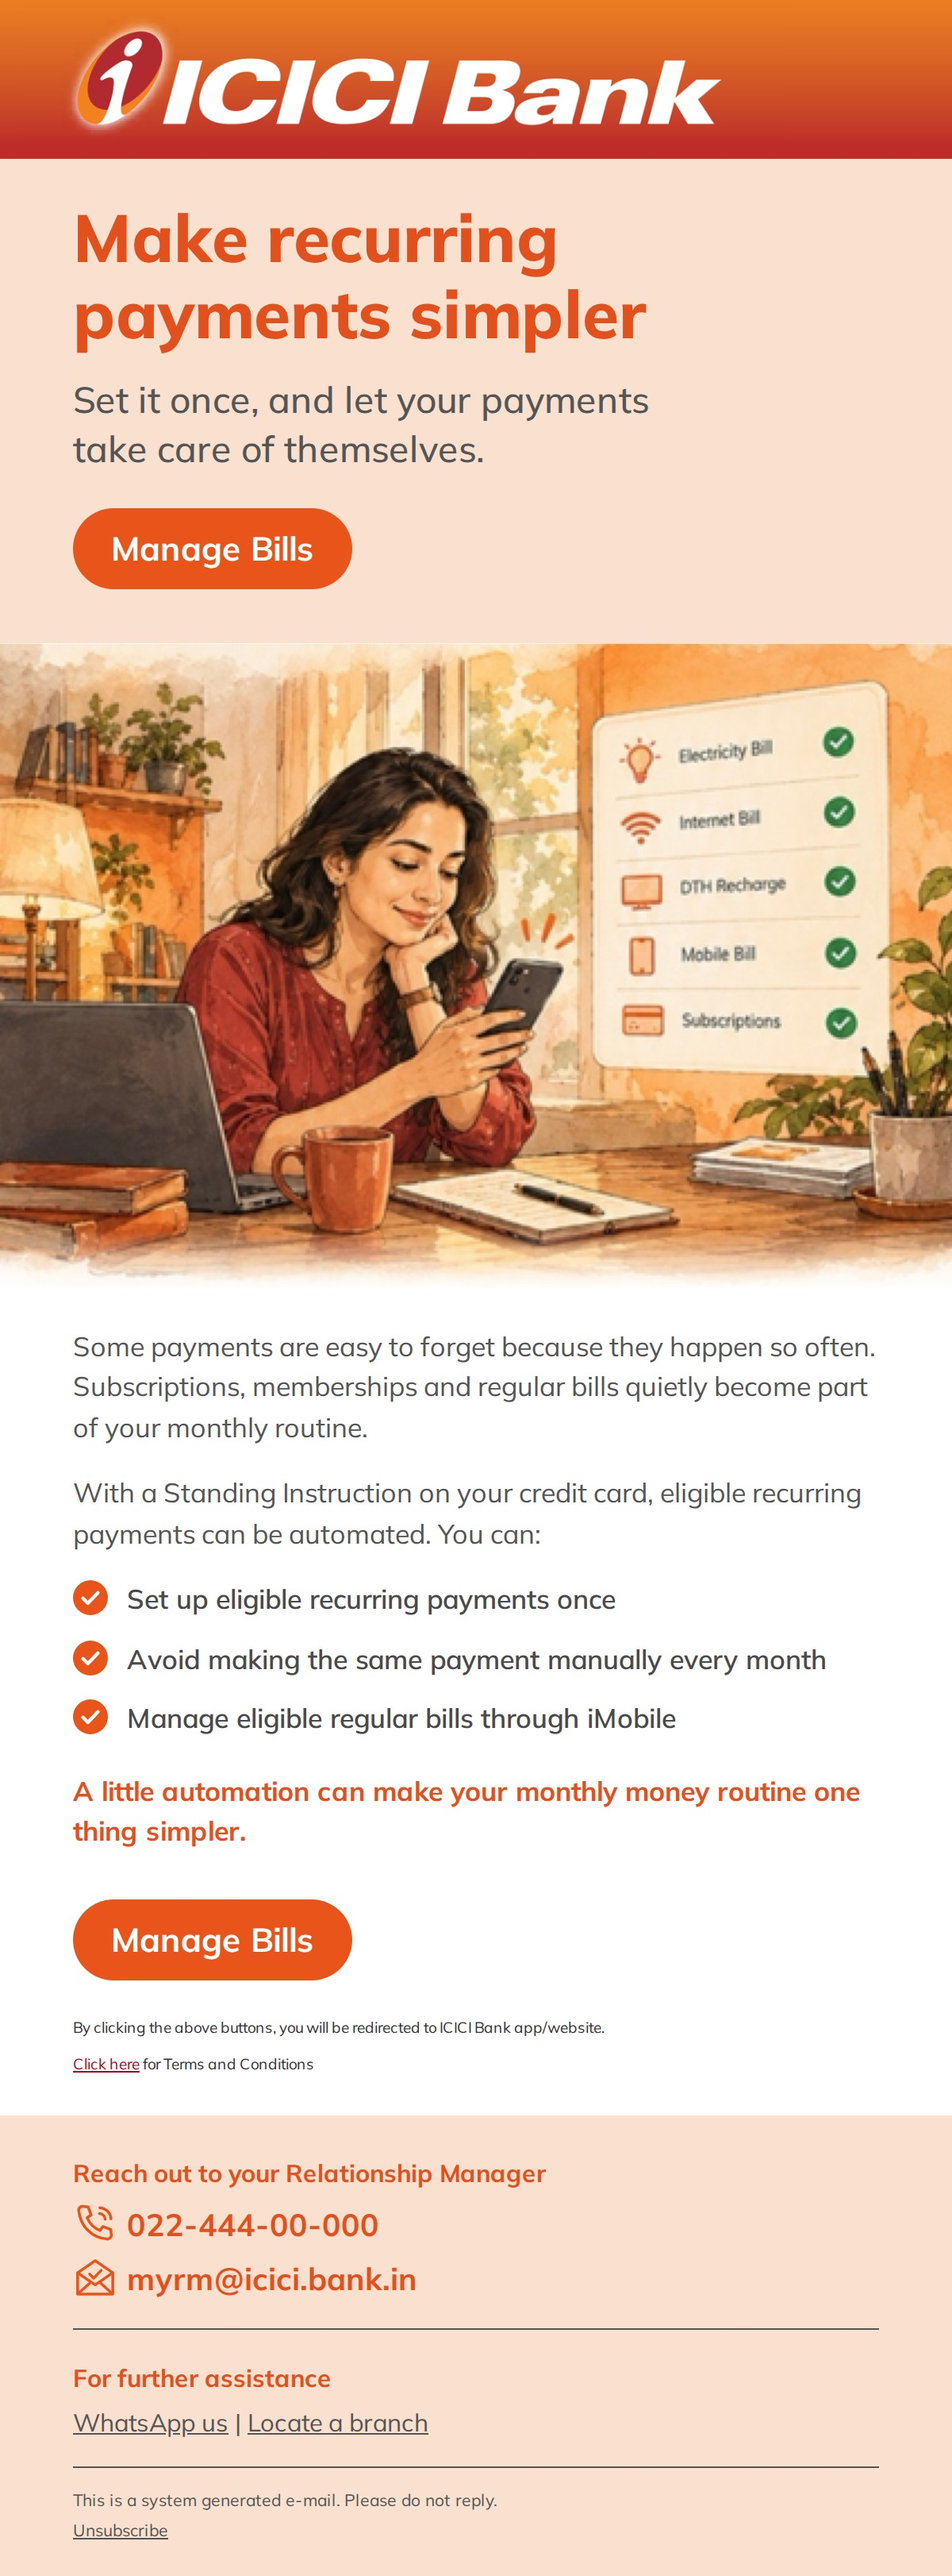
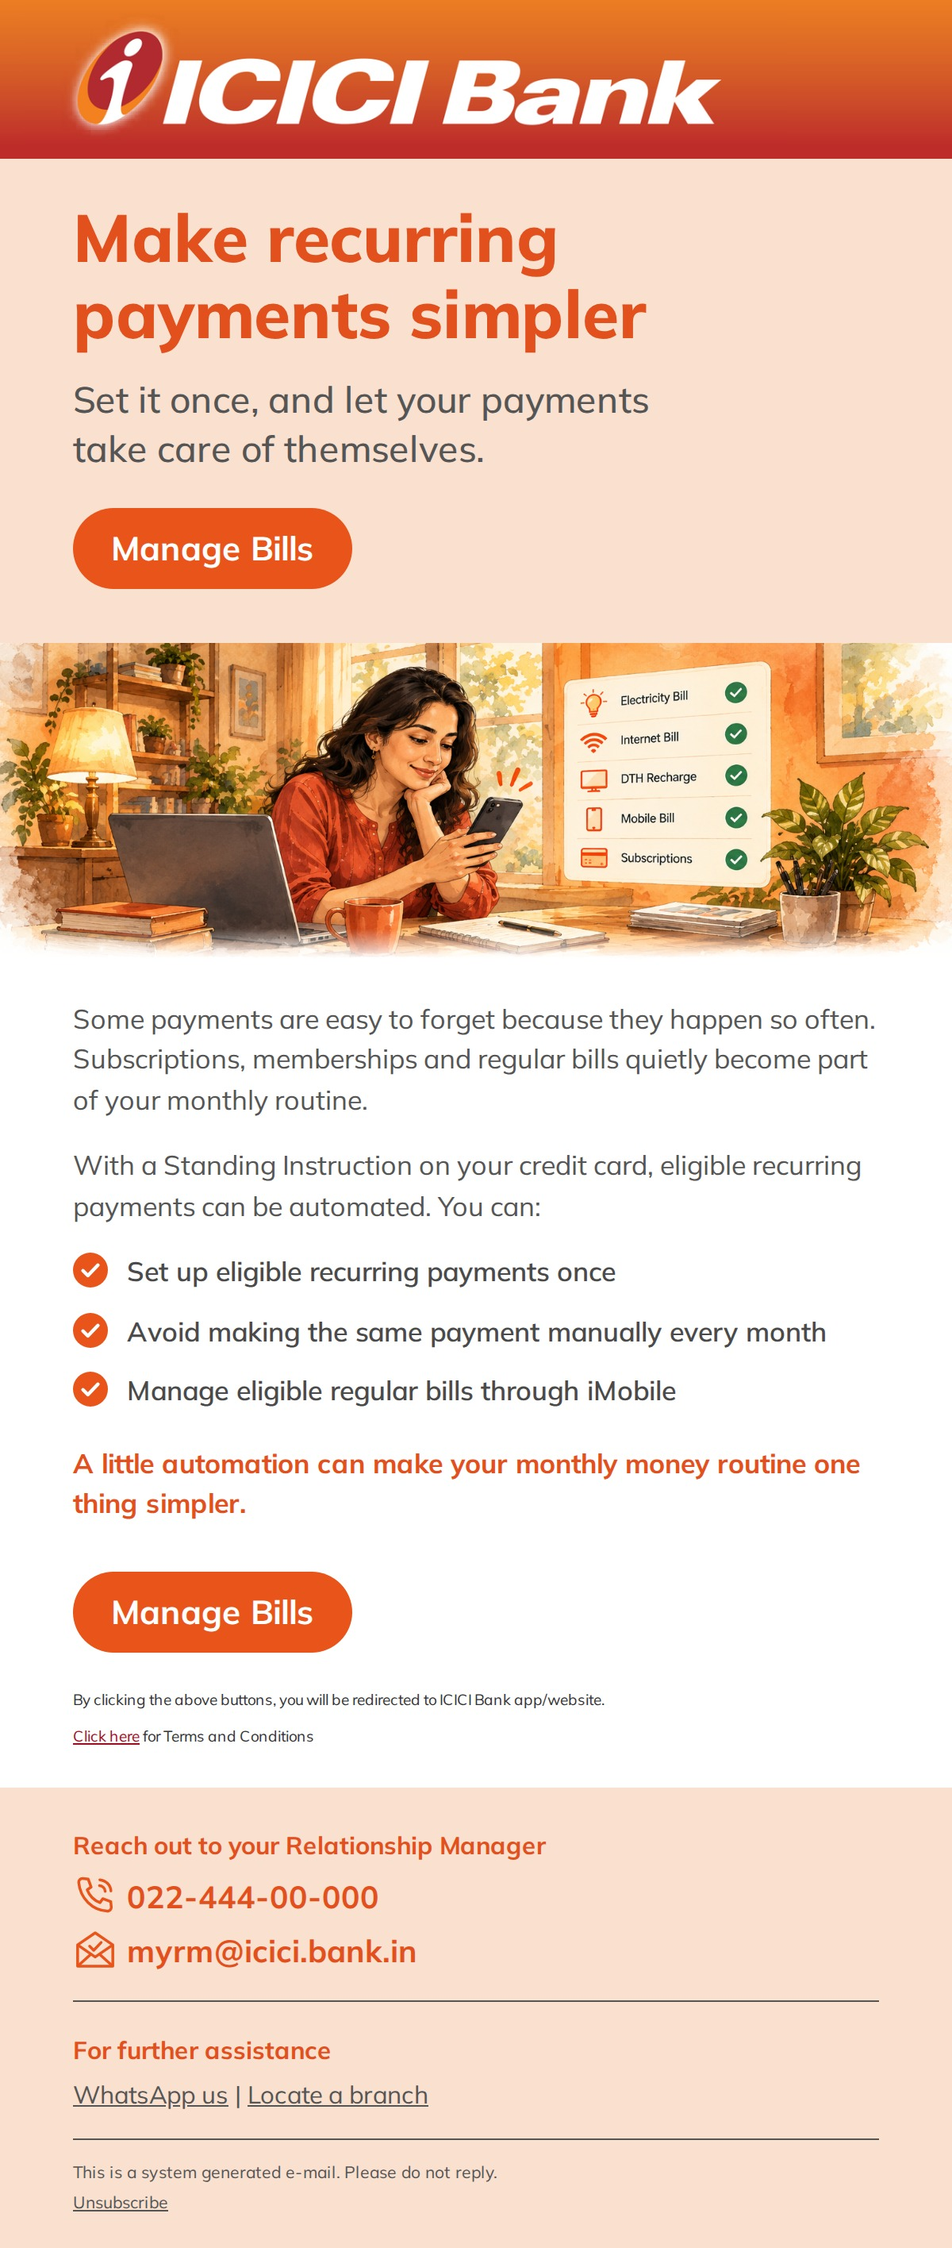
Swap in the new watercolour illustrations for both mailers
Split the supplied 1536x1024 sheet into two 1536x512 hero images
(recurring payments on top, EMI below) and re-exported both JPEGs.

Claude-Session: https://claude.ai/code/session_01Xrrh9AtUaVEQQhgAmmX2d4

diff --git a/mailers/source/mailer1.html b/mailers/source/mailer1.html
@@ -31,10 +31,10 @@ h1{font-size:42px;line-height:1.14;font-weight:800;color:#E2501D;letter-spacing:
 .sm{font-size:10.5px;line-height:1.6;color:#555}
 .sm a{color:#555}
 
-.body{text-align:left}.imgcrop img{margin-top:-0px}.imgcrop{overflow:hidden;height:406px}</style></head><body><div class="m">
+.body{text-align:left}.imgcrop img{margin-top:-0px}.imgcrop{overflow:hidden;height:200px}</style></head><body><div class="m">
 <div class="hd"><img src="logo-band.png" alt="ICICI Bank"></div>
 <div class="hero"><h1>Make recurring payments simpler</h1><p class="sub">Set it once, and let your payments<br>take care of themselves.</p><a class="btn">Manage Bills</a></div>
-<div class="vis imgcrop"><img src="ill-bills.jpg" style="width:606px;margin-left:-3px"></div>
+<div class="vis imgcrop"><img src="ill-bills.png" style=""></div>
 <div class="body"><p>Some payments are easy to forget because they happen so often. Subscriptions, memberships and regular bills quietly become part of your monthly routine.</p><p>With a Standing Instruction on your credit card, eligible recurring payments can be automated. You can:</p><div class="list"><div class="li"><svg width="22" height="22" viewBox="0 0 22 22"><circle cx="11" cy="11" r="11" fill="#E8541A"/><path d="M6.3 11.4l3.1 3.1 6.3-6.6" fill="none" stroke="#fff" stroke-width="2.2" stroke-linecap="round" stroke-linejoin="round"/></svg><span>Set up eligible recurring payments once</span></div><div class="li"><svg width="22" height="22" viewBox="0 0 22 22"><circle cx="11" cy="11" r="11" fill="#E8541A"/><path d="M6.3 11.4l3.1 3.1 6.3-6.6" fill="none" stroke="#fff" stroke-width="2.2" stroke-linecap="round" stroke-linejoin="round"/></svg><span>Avoid making the same payment manually every month</span></div><div class="li"><svg width="22" height="22" viewBox="0 0 22 22"><circle cx="11" cy="11" r="11" fill="#E8541A"/><path d="M6.3 11.4l3.1 3.1 6.3-6.6" fill="none" stroke="#fff" stroke-width="2.2" stroke-linecap="round" stroke-linejoin="round"/></svg><span>Manage eligible regular bills through iMobile</span></div></div><p class="hl">A little automation can make your monthly money routine one thing simpler.</p></div>
 <div class="cta2"><a class="btn">Manage Bills</a></div>
 <div class="disc"><p>By clicking the above buttons, you will be redirected to ICICI Bank app/website.</p><p><a href="#">Click here</a> for Terms and Conditions</p></div>

diff --git a/mailers/source/mailer2.html b/mailers/source/mailer2.html
@@ -31,10 +31,10 @@ h1{font-size:42px;line-height:1.14;font-weight:800;color:#E2501D;letter-spacing:
 .sm{font-size:10.5px;line-height:1.6;color:#555}
 .sm a{color:#555}
 
-.body{text-align:left}.imgcrop img{margin-top:-10px}.imgcrop{overflow:hidden;height:163px}</style></head><body><div class="m">
+.body{text-align:left}.imgcrop img{margin-top:-0px}.imgcrop{overflow:hidden;height:200px}</style></head><body><div class="m">
 <div class="hd"><img src="logo-band.png" alt="ICICI Bank"></div>
 <div class="hero"><h1>Big purchase? Make the payments lighter.</h1><p class="sub">Convert an eligible credit card purchase into convenient monthly EMIs.</p><a class="btn">Convert Now</a></div>
-<div class="vis imgcrop"><img src="ill-emi.jpg" style=""></div>
+<div class="vis imgcrop"><img src="ill-emi.png" style=""></div>
 <div class="body"><p>A big purchase can be exciting. Paying for it all at once doesn’t always have to be.</p><p>If your recent ICICI Bank Credit Card spend is eligible for EMI conversion, you can:</p><div class="list"><div class="li"><svg width="22" height="22" viewBox="0 0 22 22"><circle cx="11" cy="11" r="11" fill="#E8541A"/><path d="M6.3 11.4l3.1 3.1 6.3-6.6" fill="none" stroke="#fff" stroke-width="2.2" stroke-linecap="round" stroke-linejoin="round"/></svg><span>Spread the purchase amount across monthly instalments</span></div><div class="li"><svg width="22" height="22" viewBox="0 0 22 22"><circle cx="11" cy="11" r="11" fill="#E8541A"/><path d="M6.3 11.4l3.1 3.1 6.3-6.6" fill="none" stroke="#fff" stroke-width="2.2" stroke-linecap="round" stroke-linejoin="round"/></svg><span>Make a large payment easier to manage</span></div><div class="li"><svg width="22" height="22" viewBox="0 0 22 22"><circle cx="11" cy="11" r="11" fill="#E8541A"/><path d="M6.3 11.4l3.1 3.1 6.3-6.6" fill="none" stroke="#fff" stroke-width="2.2" stroke-linecap="round" stroke-linejoin="round"/></svg><span>Keep your monthly cash flow more comfortable</span></div></div><div class="call">You’ve already made the purchase.<br>Now choose a payment option that works<br>better for your month.</div></div>
 <div class="cta2"><a class="btn">Convert Now</a></div>
 <div class="disc"><p>By clicking the above buttons, you will be redirected to ICICI Bank app/website.</p><p><a href="#">Click here</a> for Terms and Conditions</p></div>

diff --git a/mailers/source/build.py b/mailers/source/build.py
@@ -57,14 +57,14 @@ def mailer(d):
 </div></body></html>"""
 
 M1=dict(h1='Make recurring payments simpler',sub='Set it once, and let your payments<br>take care of themselves.',cta='Manage Bills',
- img='ill-bills.jpg',imgstyle='width:606px;margin-left:-3px',crop=0,h=406,align='left',
+ img='ill-bills.png',crop=0,h=200,align='left',
  pre=['Some payments are easy to forget because they happen so often. Subscriptions, memberships and regular bills quietly become part of your monthly routine.',
       'With a Standing Instruction on your credit card, eligible recurring payments can be automated. You can:'],
  list=['Set up eligible recurring payments once','Avoid making the same payment manually every month','Manage eligible regular bills through iMobile'],
  close='A little automation can make your monthly money routine one thing simpler.',callout=False,
  sys='<p style="margin-bottom:2px">This is a system generated e-mail. Please do not reply.</p>')
 M2=dict(h1='Big purchase? Make the payments lighter.',sub='Convert an eligible credit card purchase into convenient monthly EMIs.',cta='Convert Now',
- img='ill-emi.jpg',crop=10,h=163,align='left',
+ img='ill-emi.png',crop=0,h=200,align='left',
  pre=['A big purchase can be exciting. Paying for it all at once doesn’t always have to be.',
       'If your recent ICICI Bank Credit Card spend is eligible for EMI conversion, you can:'],
  list=['Spread the purchase amount across monthly instalments','Make a large payment easier to manage','Keep your monthly cash flow more comfortable'],
